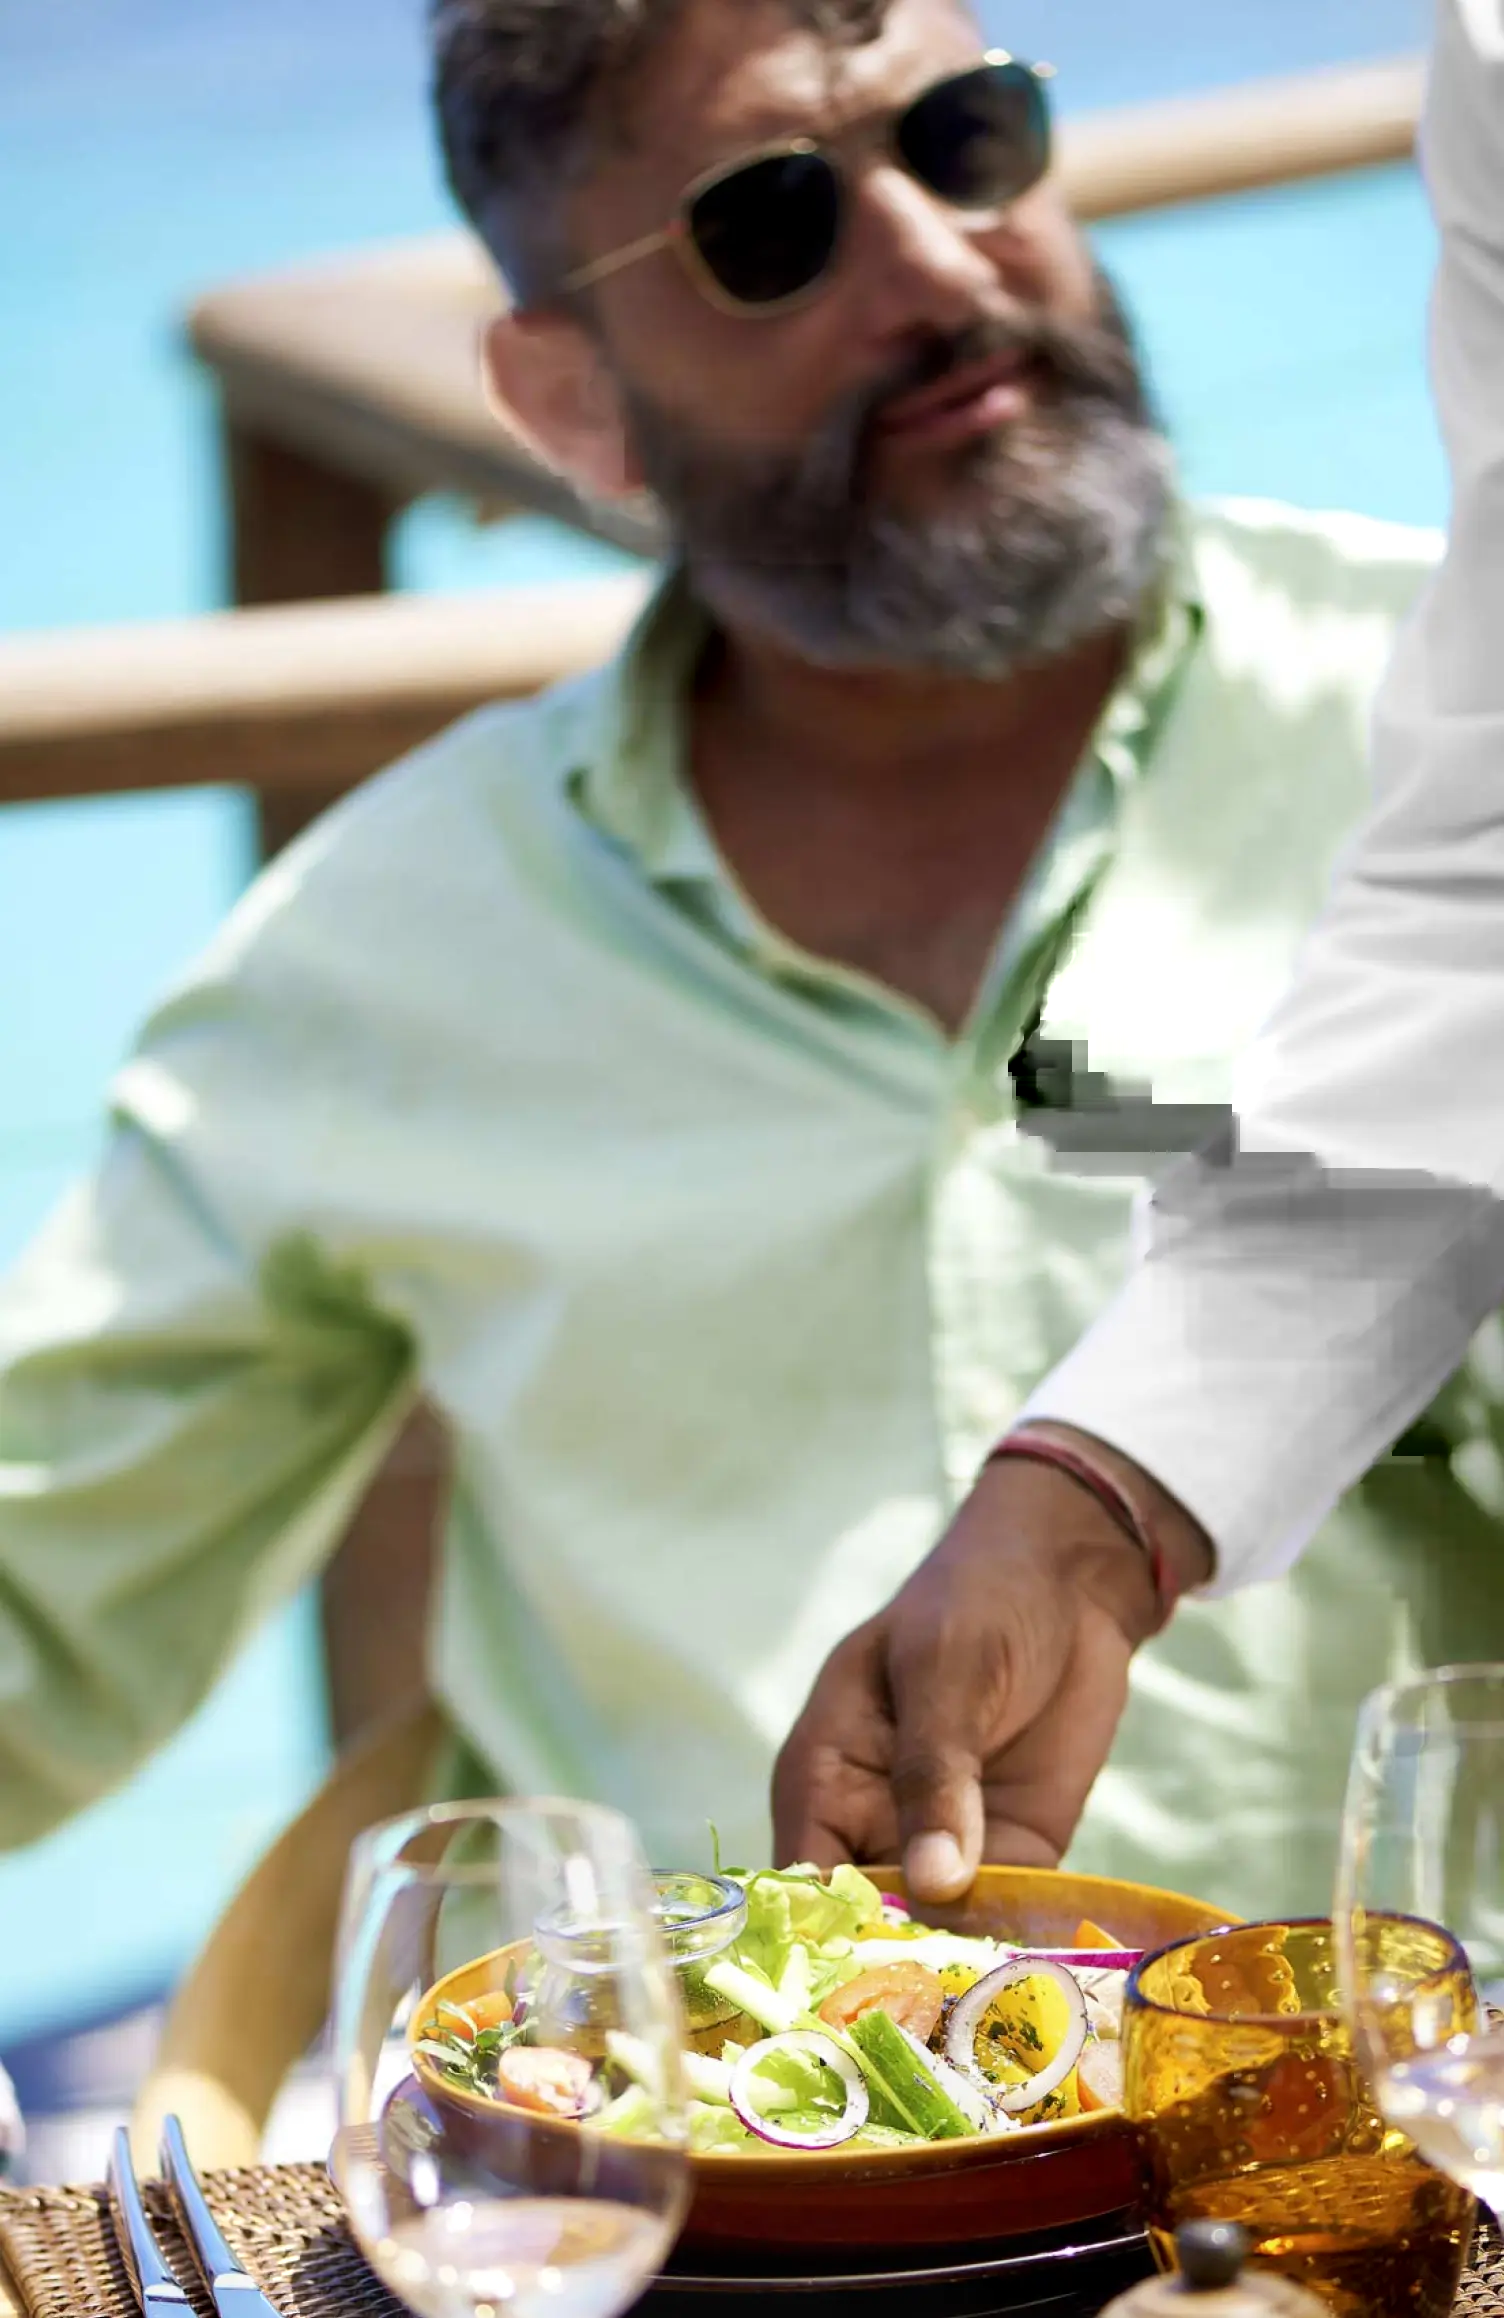
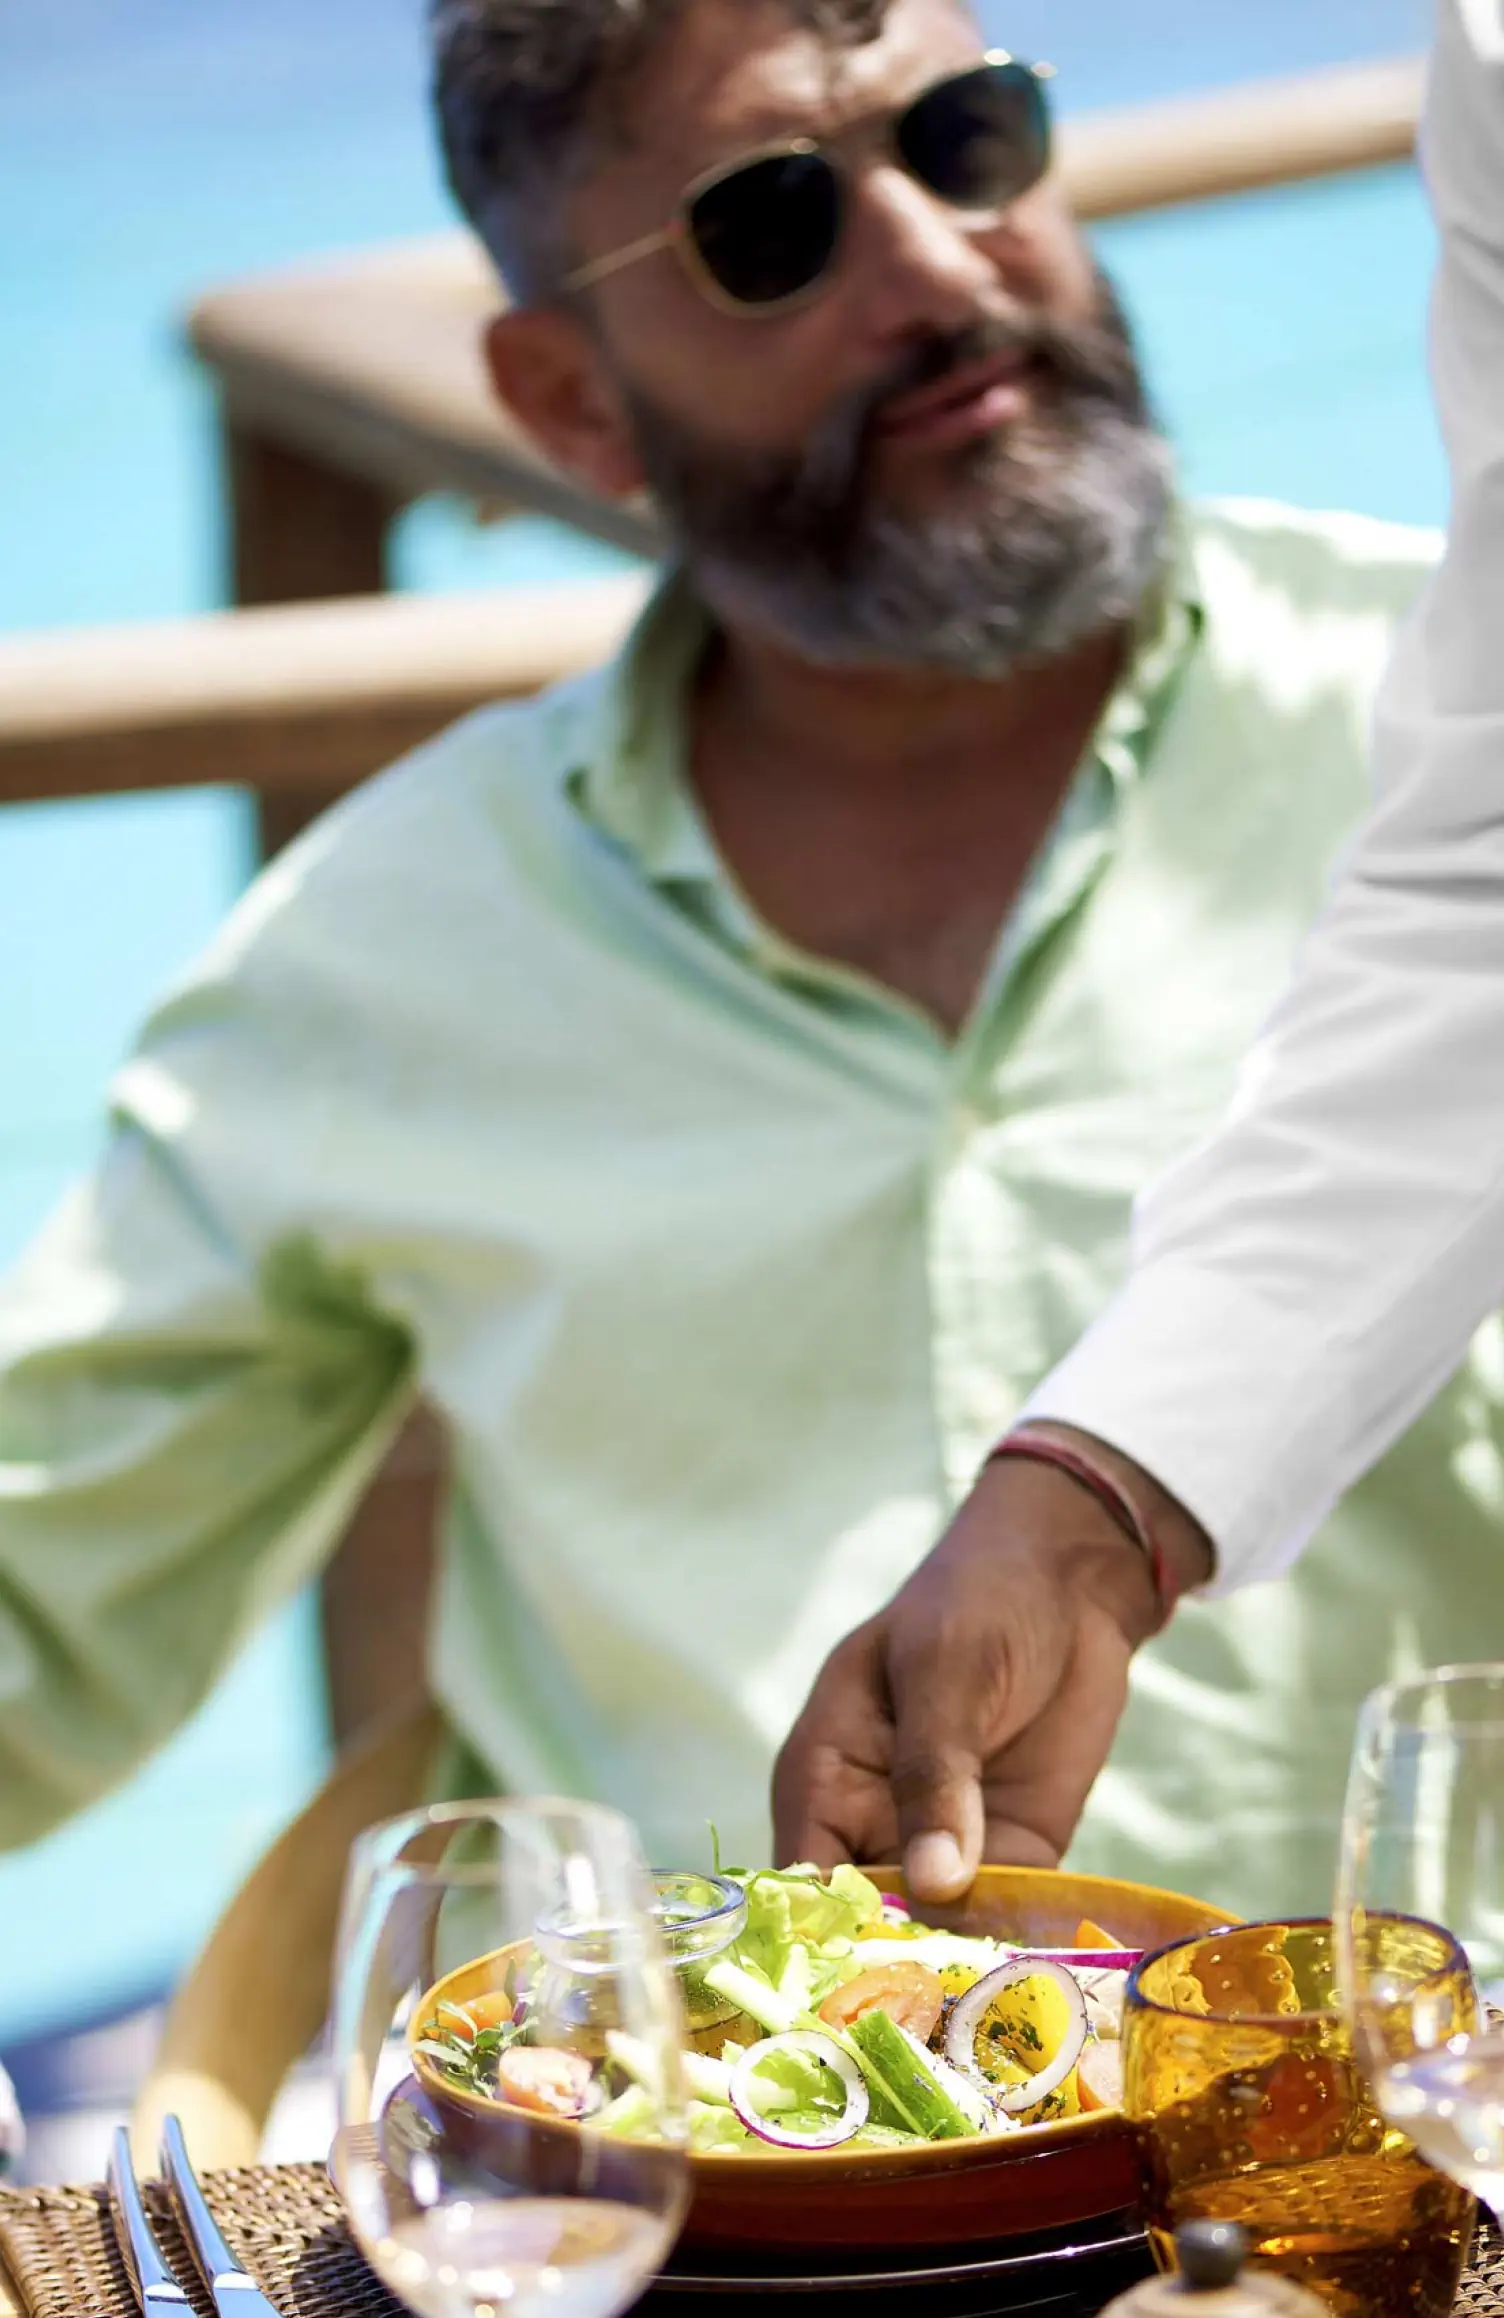
Updating footer link color + restaurant image (webp compression made by squoosh.app corrupted the render)

Changed region(s): [[0.6562, 0.3727, 1.0, 0.8697], [0.3125, 0.1242, 0.4375, 0.2485], [0.0938, 0.9629, 0.25, 1.0]]

diff --git a/public/css/app.css b/public/css/app.css
@@ -159,6 +159,16 @@ p {
   line-height: 20px;
 }
 
+.page-footer section.text p a {
+  color: #3c92f1;
+}
+
+.page-footer section.text p a:link,
+.page-footer section.text p a:visited,
+.page-footer section.text p a:active {
+  color: #3c92f1;
+}
+
 .page-footer section.copyright {
   margin-top: 15px;
 }
@@ -203,6 +213,10 @@ p {
   .btn-container a {
     font-size: 20px;
     line-height: 40px;
+  }
+
+  .page-footer {
+    background-color: #fff;
   }
 
   .page-footer section.text p {
@@ -255,7 +269,7 @@ p {
   }
 
   .page-footer {
-    margin-top: 64px;
+    padding-top: 64px;
   }
 
   .page-footer section.text p {
@@ -1939,6 +1953,7 @@ p {
 
 .section-8 {
   padding-bottom: 32px;
+  background-color: #fff;
 }
 
 .section-8 header {
@@ -2018,6 +2033,10 @@ p {
     width: 70%;
     margin: 45px auto;
     padding: 0;
+  }
+
+  .section-8 header .special-heading .elt {
+    font-size: 120px;
   }
 
   .section-8 main p {

diff --git a/resources/sass/_default.scss b/resources/sass/_default.scss
@@ -132,6 +132,16 @@ $header_height: 60px;
                 font-size: 15px;
                 font-weight: 500;
                 line-height: 20px;
+
+                a {
+                    $color:  rgb(60, 146, 241);
+
+                    color: $color;
+
+                    &:link, &:visited, &:active {
+                        color: $color;
+                    }
+                }
             }
         }
 
@@ -182,11 +192,12 @@ $header_height: 60px;
         a {
             font-size: 20px;
             line-height: 40px;
-            // padding: 0px 12px;
         }
     }
 
     .page-footer {
+        background-color: #fff;
+
         section {
             &.text {
                 p {
@@ -247,7 +258,7 @@ $header_height: 60px;
     }
 
     .page-footer {
-        margin-top: 64px;
+        padding-top: 64px;
 
         section {
             &.text {

diff --git a/resources/sass/_section-08-services.scss b/resources/sass/_section-08-services.scss
@@ -2,6 +2,7 @@
 
 .section-8 {
     padding-bottom: 32px;
+    background-color: #fff;
 
     header {
         display: flex;
@@ -85,6 +86,10 @@
                 width: 70%;
                 margin: 45px auto;
                 padding: 0;
+
+                .elt {
+                    font-size: 120px;
+                }
             }
         }
 

diff --git a/resources/views/home/_partials/footer.blade.php b/resources/views/home/_partials/footer.blade.php
@@ -11,6 +11,7 @@
     <section class="copyright">
         <picture class="img-container">
             <source media="(max-width: 699px)" srcset="{{ asset('img/2beach-club-blue-logo.webp') }}">
+            <source media="(min-width: 700px)" srcset="{{ asset('img/2beach-club-blue-logo-2x.webp') }}">
             <img src="{{ asset('img/2beach-club-blue-logo.webp') }}" alt="2Beach-Club">
         </picture>
         <p class="text-center">
